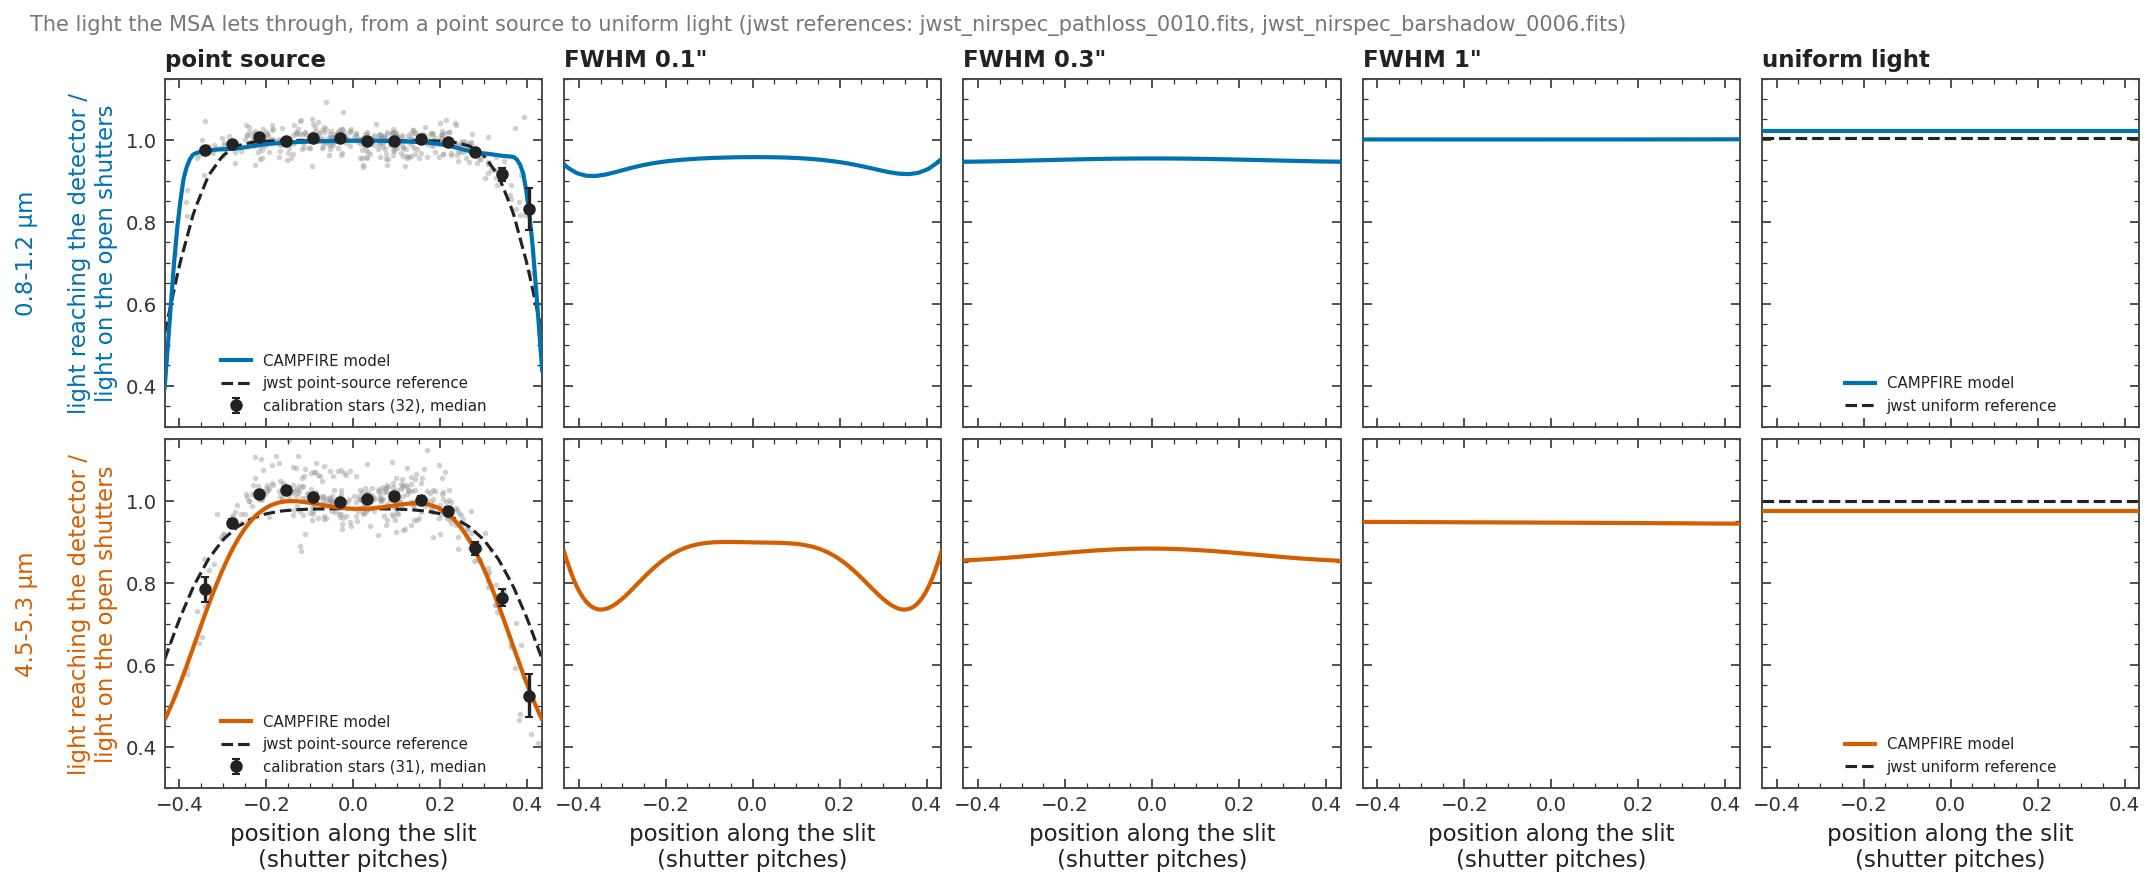
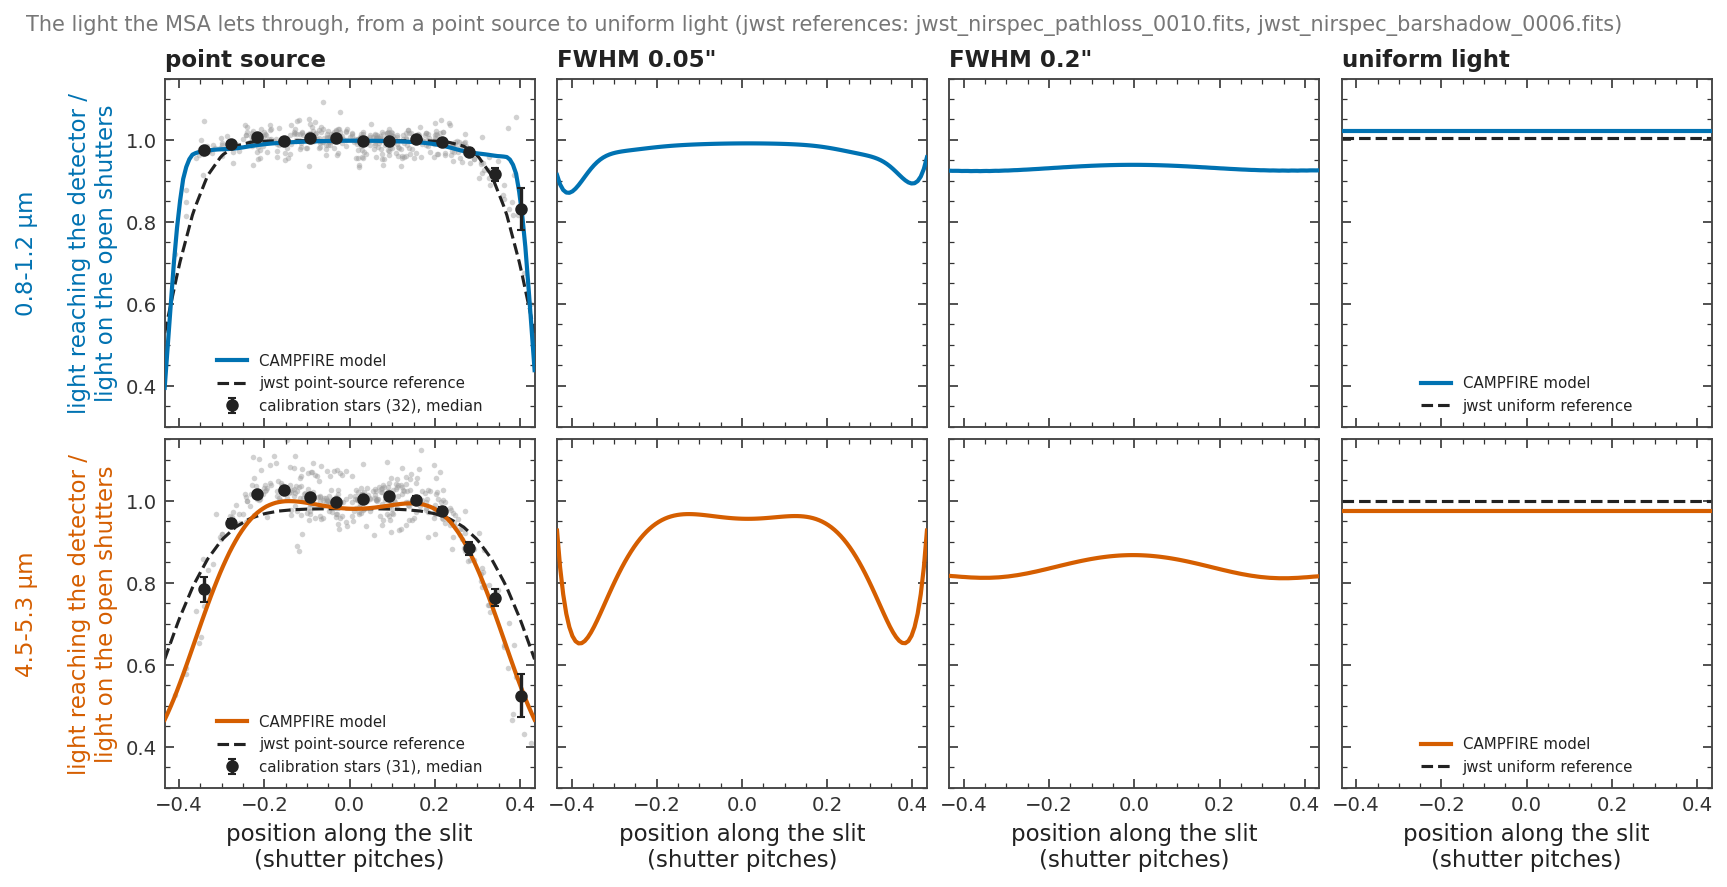
docs: path-loss figure with four columns, galaxies of 0.05 and 0.2 arcsec
Claude-Session: https://claude.ai/code/session_019a5zAqWZLmp6Vb2WHQdrWE

diff --git a/scripts/docs/nirspec/fig_pathloss.py b/scripts/docs/nirspec/fig_pathloss.py
@@ -26,7 +26,7 @@ import common as C
 
 p = C.parser(__doc__.splitlines()[0], obs=False)
 p.add_argument('--bands', nargs='+', default=['0.8:1.2', '4.5:5.3'], help='µm ranges lo:hi, one per row')
-p.add_argument('--sizes', type=float, nargs='+', default=[0.0, 0.1, 0.3, 1.0],
+p.add_argument('--sizes', type=float, nargs='+', default=[0.0, 0.05, 0.2],
                help='source FWHM in arcsec (0 = a point); uniform light is added as the last column')
 p.add_argument('--disperser', default='prism', help='for jwst\'s bar shadow (the uniform reference\'s profile)')
 p.add_argument('--stars', default=None, help='fit_star_positions.py output: stars at several positions')

diff --git a/web/lib/docs/content/reduction/nirspec/slit-losses.md b/web/lib/docs/content/reduction/nirspec/slit-losses.md
@@ -23,7 +23,7 @@ Each exposure's own open shutters enter the model, so a source in the end shutte
 
 The same model gives the light that reaches the detector for any source. For a point source at the shutter center it agrees with `jwst`'s point-source table by construction; off center, and for every size, it follows the instrument. Between a point source and uniform light, where most galaxies are, `jwst` has nothing.
 
-![Of the light that falls on the open shutters, the fraction that reaches the detector, against where the source sits along the slit, at 0.8 to 1.2 µm (top) and 4.5 to 5.3 µm (bottom), for sources of increasing size from left to right. Light that falls on the bars is lost as well; the curves do not include it. The vertical scale is set to jwst's value for a point source at the center. Left: a point source, with jwst's point-source table (dashed) and calibration stars (gray points, black medians). Right: uniform light, with jwst's uniform table. In between: galaxies of 0.1″, 0.3″ and 1″ across (FWHM). A small source loses most near the shutter edges; at 5 µm a 0.1″ galaxy is still much smaller than the telescope's image, so it behaves almost like a point source. A large one loses about the same wherever it sits.](/docs/nirspec/pathloss.png)
+![Of the light that falls on the open shutters, the fraction that reaches the detector, against where the source sits along the slit, at 0.8 to 1.2 µm (top) and 4.5 to 5.3 µm (bottom), for sources of increasing size from left to right. Light that falls on the bars is lost as well; the curves do not include it. The vertical scale is set to jwst's value for a point source at the center. Left: a point source, with jwst's point-source table (dashed) and calibration stars (gray points, black medians). Right: uniform light, with jwst's uniform table. In between: galaxies 0.05″ and 0.2″ across (FWHM). A small source loses most near the shutter edges; at 5 µm a 0.05″ galaxy is still much smaller than the telescope's image, so it behaves almost like a point source. A larger one loses about the same wherever it sits.](/docs/nirspec/pathloss.png)
 
 The model sets how the loss changes with position and size. Its level, the loss of a point source at the shutter center, is taken from `jwst`'s point-source table. The model was not fitted to either `jwst` table.
 
